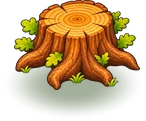
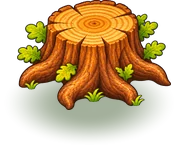
Дубовые пни шире и тень под большим дубом
После лестницы высот ствол дуба толще прежнего (около 34 единиц):
пни дуба 38 по ширине, предел тени дерева 80 вместо 66.

Claude-Session: https://claude.ai/code/session_011VhYm7g5Q5hYgefyP2ZLmQ

diff --git a/tools/slice_art.py b/tools/slice_art.py
@@ -75,8 +75,8 @@ NOBASE = {
     'bush_blueberry_young': ('w', 33.5), 'bush_raspberry_young': ('w', 30.2), 'bush_rosehip_young': ('w', 33.0),
     'bush_hydrangea_young': ('w', 34.0), 'bush_lavender_young': ('w', 31.8), 'bush_rose_young': ('w', 31.2),
     # пни (до 2026-11-09 — листы stumps, stumps2)
-    # пни: ширина всей картинки (корни, листья) — около трёх четвертей прежнего травяного ромба
-    'stump_oak': ('w', 31), 'stump_birch': ('w', 27), 'stump_pine': ('w', 31), 'stump_oak_moss': ('w', 31),
+    # пни: ширина всей картинки (корни, листья); дубовые шире — у большого дуба ствол толще остальных
+    'stump_oak': ('w', 38), 'stump_birch': ('w', 27), 'stump_pine': ('w', 31), 'stump_oak_moss': ('w', 38),
     'stump_apple': ('w', 31), 'stump_sakura': ('w', 31), 'stump_cherry': ('w', 31), 'stump_maple': ('w', 31),
     'stump_linden': ('w', 31),
     # дикая высокая трава (до 2026-11-09 — лист grass_tall из трёх)
@@ -84,7 +84,7 @@ NOBASE = {
 }
 # Тень под растением: (доля ширины кроны, мин. и макс. ширина в мире, непрозрачность в середине).
 # Эллипс 2:1 как клетка, чуть вправо-вниз (свет слева сверху), края мягкие.
-SHADOW = {'tree': (0.64, 34, 66, 0.48), 'bush': (0.92, 25, 52, 0.42), 'stump': (1.2, 25, 46, 0.4),
+SHADOW = {'tree': (0.64, 34, 80, 0.48), 'bush': (0.92, 25, 52, 0.42), 'stump': (1.2, 25, 46, 0.4),
           'grass': (0.9, 20, 44, 0.3)}
 SHADOW_RGB = (28, 58, 6)
 NOBASE_KIND = lambda name: 'grass' if name.startswith('grass_') else name.split('_')[0]
